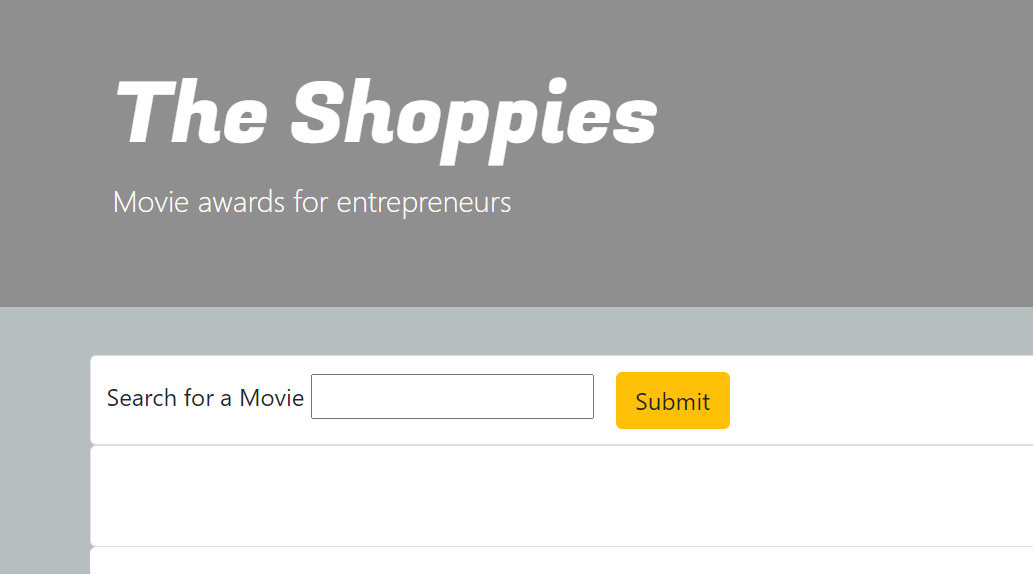
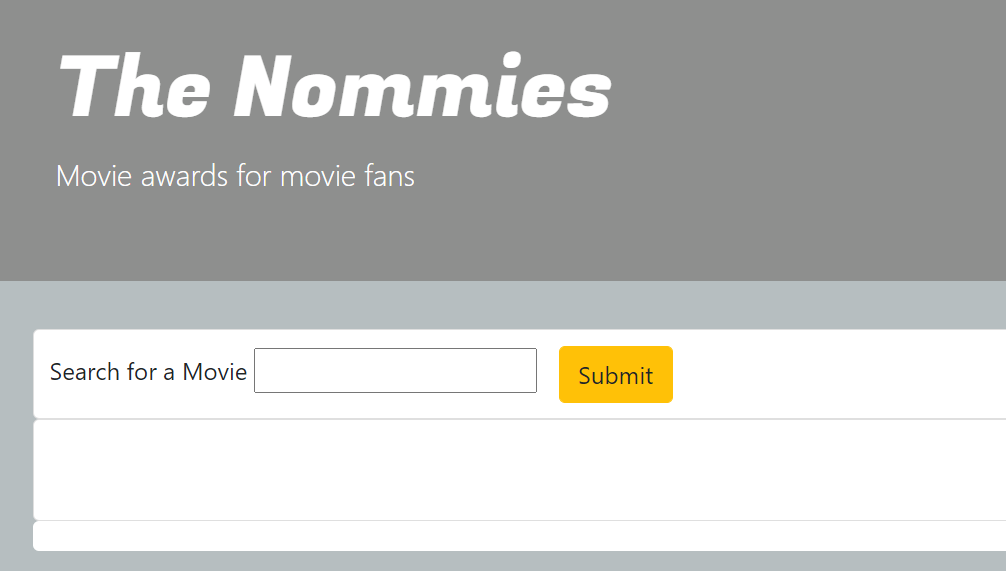
adjusted README, added new image for title bar

Changed region(s): [[0.0308, 0.5657, 1.0, 1.0], [0.0308, 0.0893, 0.6471, 0.387], [0.0, 0.4764, 1.0, 0.5359]]

diff --git a/README.md b/README.md
@@ -1,7 +1,7 @@
-# The Shoppies  
+# The Nommies  
 
 ## Description  
-A web application that allows users to search for movies and nominate up to five movies for "The Shoppies". Completed as a development challenge for the Summer 2021 Shopify Internship application.
+A web application that allows users to search for movies and nominate up to five movies for "The Nommies".  
 
 ## Table of Contents
 
@@ -26,28 +26,27 @@ Javascript/jQuery
 OMDB API        
 
 ## How to Use    
-Navigate to https://alyssahellrung.github.io/theShoppies/. In the search bar, enter the name of any movie and click "Submit".   
+Navigate to https://alyssahellrung.github.io/movieNommies/. In the search bar, enter the name of any movie and click "Submit".   
 ![image](./assets/shot1.png)  
 Details about your movie will appear below the search bar.   
 ![image](./assets/shot2.png)  
-If you would like to "nominate" the movie for a Shoppy Award, click "Nominate". The title of your movie will appear in the nomination list.   
+If you would like to "nominate" the movie for a Nommie Award, click "Nominate". The title of your movie will appear in the nomination list.   
 ![image](./assets/shot4.png)  
 ![image](./assets/shot3.png)   
 If you would like to delete a nominee later on, you can click the "X" button and it will disappear from the list. If you try to add more than five titles to your nomination list, an alert will appear informing you that you have already reached your limit of five nominations.   
 ![image](./assets/shot5.png)  
 If you search for a movie that you have already nominated, the search results will not include a "Nominate" button. 
 
-
+  
 ## How I Made This  
-I laid down the basic structure of the page (the heading, search bar, major divs, and cards) using html and bootstrap first, then I set up my ajax call for OMDB and figured out how to harness the pieces of the response I wanted to use on my page. We were only required to show the movie title and release date, but I wanted to also include a short plot summary and especially the poster image because it made the whole page light up and was way more visually interesting than text alone. Then I figured out how to dynamically render the results and how to get the nominees into an array, from which I could render list items if any movies were nominated. After that it was a flurry of setting up event handlers, the "five movie limit" alert, and delete buttons and functionality. I have used all of these techniques before, but it was great to create an app from start to finish by myself while reviewing them.
+I laid down the basic structure of the page (the heading, search bar, major divs, and cards) using html and bootstrap first, then I set up my ajax call for OMDB and figured out how to harness the pieces of the response I wanted to use on my page. I decided to include the movie title and release date along with a short plot summary and the poster image. Then I figured out how to dynamically render the results and how to get the nominees into an array, from which I could render list items if any movies were nominated. After that it was a flurry of setting up event handlers, the "five movie limit" alert, and delete buttons and functionality. I have used all of these techniques before, but it was great to create an app from start to finish by myself while reviewing them.
 
 ## Link to Deployed Application
-https://alyssahellrung.github.io/theShoppies/
+https://alyssahellrung.github.io/movieNommies/
 
 ## Link to GitHub Repo    
-https://github.com/alyssahellrung/theShoppies
+https://github.com/alyssahellrung/movieNommies
 
 ## Future Development Ideas  
---If I were to keep working on this, I would refactor my script because I could definitley streamline some things...  
---...but honestly I would probably remake the whole thing using React if I were to do it again!  
---Add more style!    
+--Redo in React  
+--Style it out better   
